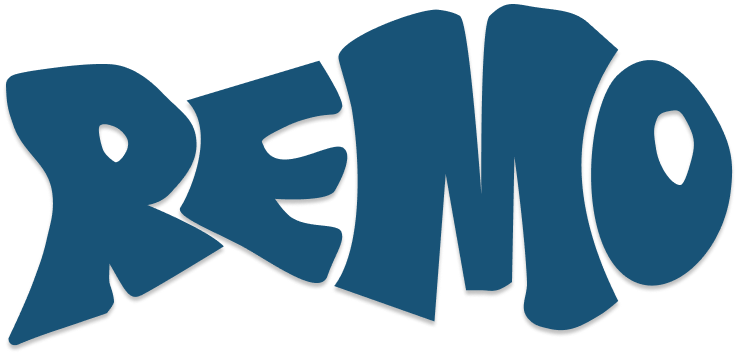
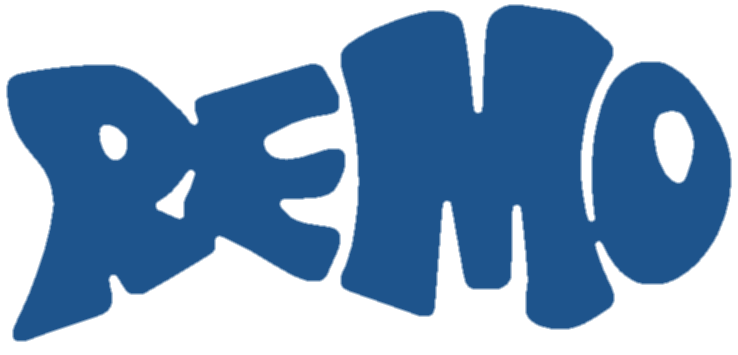
첫 화면 정리 — 관계 맵 제거, 내용 크기 히어로, 로고 둥글림(열림 연산), 방향 축약, 여백 축소

diff --git a/site/index.html b/site/index.html
@@ -66,65 +66,26 @@
     .site-header.on-paper { background: rgba(248, 248, 246, .92); color: var(--ink); }
     @media (prefers-reduced-motion: reduce) { .site-header { transition: none; } }
 
-    /* ===== 0. 히어로: 잉크 위 블루 로고(가이드 2.2 블루 모드 그대로), 그 위에 열 명 ===== */
-    .hero { background: var(--ink); color: var(--paper); min-height: 100dvh; display: grid; grid-template-rows: 1fr auto; padding-block: calc(var(--header-h) + 24px) 32px; position: relative; overflow: hidden; }
-    .hero-stage { position: relative; align-self: center; width: min(92vw, 1180px); justify-self: start; margin-left: 2vw; }
-    .hero-stage .mark { display: block; width: 100%; height: auto; }
-    @keyframes settle { from { transform: scale(1.04); opacity: 0; } to { transform: scale(1); opacity: 1; } }
-    @keyframes pop { from { scale: 0; } to { scale: 1; } }
-    @keyframes draw { from { stroke-dashoffset: 1; } to { stroke-dashoffset: 0; } }
-    @keyframes floaty { 0%, 100% { transform: translateY(0); } 50% { transform: translateY(-6px); } }
-    .hero-stage .mark { animation: settle 900ms cubic-bezier(.2,.9,.2,1.05) both; }
-    .hero-map { position: absolute; inset: 0; }
-    .hero-map svg { position: absolute; inset: 0; width: 100%; height: 100%; overflow: visible; }
-    .hero-map line { stroke: var(--paper); stroke-linecap: round; stroke-dasharray: 1; stroke-dashoffset: 0; transition: opacity 250ms; animation: draw 700ms ease-out both; animation-delay: 600ms; }
-    .node {
-      position: absolute; translate: -50% -50%; border: 0; padding: 0; cursor: pointer; min-width: 24px; min-height: 24px;
-      background: radial-gradient(circle at 32% 30%, #FFFFFF 0%, #EEF2F6 45%, #C9D6E4 100%);
-      box-shadow: inset -3px -4px 6px rgba(30, 84, 140, .35), inset 2px 3px 4px rgba(255,255,255,.9), 0 6px 14px rgba(0,0,0,.35);
-      border-radius: 50%;
-      animation: pop 380ms cubic-bezier(.2,.9,.2,1.15) both;
-      animation-delay: calc(700ms + var(--i, 0) * 60ms);
-      transition: scale 150ms ease-out, background-color 150ms;
-    }
-    .node:nth-of-type(2)  { border-radius: 52% 48% 46% 54% / 48% 54% 46% 52%; }
-    .node:nth-of-type(3)  { border-radius: 46% 54% 52% 48% / 54% 46% 48% 52%; }
-    .node:nth-of-type(4)  { border-radius: 55% 45% 50% 50% / 45% 50% 50% 55%; }
-    .node:nth-of-type(5)  { border-radius: 48% 52% 55% 45% / 52% 48% 45% 55%; }
-    .node:nth-of-type(6)  { border-radius: 50% 50% 45% 55% / 55% 45% 50% 50%; }
-    .node:nth-of-type(7)  { border-radius: 53% 47% 48% 52% / 47% 53% 52% 48%; }
-    .node:nth-of-type(8)  { border-radius: 45% 55% 53% 47% / 53% 47% 45% 55%; }
-    .node:nth-of-type(9)  { border-radius: 51% 49% 54% 46% / 49% 51% 46% 54%; }
-    .node:nth-of-type(10) { border-radius: 47% 53% 49% 51% / 51% 49% 53% 47%; }
-    .node.float { animation: pop 380ms cubic-bezier(.2,.9,.2,1.15) both, floaty var(--dur, 7s) ease-in-out infinite; animation-delay: calc(700ms + var(--i, 0) * 60ms), calc(1400ms + var(--i, 0) * 300ms); }
-    .node:hover, .node:focus-visible { scale: 1.15; }
-    .node[aria-pressed="true"] { background: var(--blue); box-shadow: inset -3px -4px 6px rgba(0,0,0,.35), 0 0 0 3px var(--paper); }
-    .node:focus-visible { outline-color: var(--paper); }
-    .hero-foot { display: flex; align-items: flex-end; justify-content: space-between; gap: 24px; flex-wrap: wrap; }
-    .hero h1 { font-size: 22px; font-weight: 500; line-height: 1.45; letter-spacing: -0.01em; max-width: 34ch; }
-    @media (max-width: 879px) { .hero h1 { font-size: 18px; } }
-    .rel-filters { display: flex; gap: 4px 18px; flex-wrap: wrap; }
-    .rel-filters button { background: none; border: 0; padding: 10px 0; min-height: 44px; color: var(--paper); font: inherit; font-size: 13px; font-weight: 600; letter-spacing: 0.02em; cursor: pointer; opacity: .6; text-decoration: underline; text-underline-offset: 6px; text-decoration-thickness: 1.5px; text-decoration-color: transparent; }
-    .rel-filters button:hover { opacity: 1; }
-    .rel-filters button[aria-pressed="true"] { opacity: 1; text-decoration-color: currentColor; }
-    .rel-filters button:focus-visible { outline-color: var(--paper); }
-    .rel-cap { font-size: 12px; color: var(--mute-on-ink); }
+    /* ===== 0. 히어로: 잉크 위 블루 로고 하나. 높이는 내용이 정한다(빈 검정 여백은 의도가 아니라 남은 공간) ===== */
+    .hero { background: var(--ink); color: var(--paper); padding-block: calc(var(--header-h) + 6vh) 0; position: relative; overflow: hidden; }
+    .hero .mark { display: block; width: 100%; height: auto; }
+    @keyframes settle { from { transform: scale(1.03); opacity: 0; } to { transform: scale(1); opacity: 1; } }
+    .hero .mark { animation: settle 900ms cubic-bezier(.2,.9,.2,1.05) both; }
+    .hero h1 { margin-top: 5vh; font-size: 20px; font-weight: 500; line-height: 1.45; letter-spacing: -0.01em; max-width: 34ch; color: var(--mute-on-ink); }
+    @media (max-width: 879px) { .hero h1 { font-size: 17px; margin-top: 28px; } }
     @supports (animation-timeline: scroll()) {
-      @keyframes rise { to { transform: translateY(-12vh) scale(.94); } }
-      .hero-stage { animation: rise linear both; animation-timeline: scroll(root); animation-range: 0 100vh; }
+      @keyframes rise { to { transform: translateY(-8vh) scale(.97); } }
+      .hero .mark { animation: settle 900ms cubic-bezier(.2,.9,.2,1.05) both, rise linear both; animation-timeline: auto, scroll(root); animation-range: normal, 0 80vh; }
     }
-    @media (prefers-reduced-motion: reduce) {
-      .hero-stage .mark, .hero-map line, .node, .node.float, .hero-stage { animation: none !important; }
-      .node:hover, .node:focus-visible { scale: 1; }
-    }
+    @media (prefers-reduced-motion: reduce) { .hero .mark { animation: none !important; } }
 
     /* ===== 1. 방향: 잉크 위 매니페스토. 계단 들여쓰기가 로고의 상승 리듬 ===== */
-    .direction { background: var(--ink); color: var(--paper); padding-block: 12vh 16vh; }
+    .direction { background: var(--ink); color: var(--paper); padding-block: 12vh 14vh; }
     .direction .mission { font-size: clamp(44px, 7vw, 112px); font-weight: 800; line-height: .98; max-width: 14ch; }
     .direction .mission .step { display: block; padding-left: 1.2em; }
+    @media (max-width: 879px) { .direction .mission { font-size: clamp(30px, 9vw, 44px); max-width: none; } .direction .mission .step { padding-left: .6em; } }
     .direction .src { margin-top: 24px; color: var(--mute-on-ink); font-size: 14px; }
-    .direction .grid { margin-top: 10vh; display: grid; grid-template-columns: minmax(0, 7fr) minmax(0, 5fr); gap: 48px; align-items: start; }
-    @media (max-width: 879px) { .direction .grid { grid-template-columns: 1fr; gap: 40px; } }
+    .direction .vision { margin-top: 8vh; max-width: 30ch; }
     .direction .vision { font-size: clamp(26px, 2.6vw, 34px); font-weight: 500; line-height: 1.3; letter-spacing: -0.02em; }
     .direction .vision .label { display: block; margin-top: 10px; color: var(--mute-on-ink); }
     .direction .kv { display: grid; gap: 28px; }
@@ -134,7 +95,7 @@
     .direction .goal { font-size: 22px; font-weight: 500; line-height: 1.4; }
 
     /* ===== 2. 포트폴리오: 근백색, 인덱스 행. 이미지 없음은 타이포로 정직하게 ===== */
-    .portfolio { padding-block: 12vh 8vh; }
+    .portfolio { padding-block: 10vh 6vh; }
     .portfolio .head { display: flex; justify-content: space-between; align-items: baseline; gap: 24px; flex-wrap: wrap; margin-bottom: 40px; }
     .portfolio h2 { font-size: clamp(32px, 4vw, 56px); font-weight: 800; }
     .portfolio .head p { color: var(--mute-on-paper); font-size: 16px; }
@@ -152,7 +113,7 @@
     @media (prefers-reduced-motion: reduce) { .row a { transition: none; } }
 
     /* ===== 3. 팀: 풀블리드 사진 + 이름의 벽 ===== */
-    .team { padding-block: 8vh 12vh; }
+    .team { padding-block: 6vh 10vh; }
     .team figure { margin: 0 calc(-1 * var(--gutter)); }
     .team figure img { display: block; width: 100%; height: auto; aspect-ratio: 21 / 9; object-fit: cover; }
     @media (max-width: 879px) { .team figure img { aspect-ratio: 4 / 3; } }
@@ -162,7 +123,7 @@
     .team .note { margin-top: 24px; font-size: 15px; color: var(--mute-on-paper); }
 
     /* ===== 4. 문의: 에디토리얼 폼. 필수 3, 나머지 선택 ===== */
-    .contact { padding-block: 8vh 14vh; border-top: 1px solid var(--ink); }
+    .contact { padding-block: 8vh 12vh; border-top: 1px solid var(--ink); }
     .contact h2 { font-size: clamp(36px, 5vw, 72px); font-weight: 800; }
     .contact .lead { margin-top: 20px; max-width: 46ch; color: var(--mute-on-paper); font-size: 17px; }
     .contact-form { margin-top: 48px; display: grid; grid-template-columns: repeat(2, minmax(0, 1fr)); gap: 36px 40px; }
@@ -218,22 +179,12 @@
   </header>
 
   <main id="main">
-    <!-- 0. 히어로 — 로고가 화면의 주인공. 노드 10개는 data/relations.json이 있을 때만 로고 위에 얹힌다. -->
+    <!-- 0. 히어로 — 로고 하나와 한 줄. 관계 맵은 첫 화면에서 뺐다(2026-09-18, 팀장). plan-09 §6 -->
     <section class="hero dark" id="hero" aria-labelledby="h-hero">
-      <div class="hero-stage" id="hero-stage">
+      <div class="wrap">
         <img class="mark" src="assets/remo-wordmark.png" alt="REMO" width="738" height="355" fetchpriority="high">
-        <div class="hero-map" id="relations" hidden>
-          <svg viewBox="0 0 640 440" preserveAspectRatio="none" aria-hidden="true" id="rel-lines"></svg>
-        </div>
-      </div>
-      <div class="hero-foot wrap">
         <h1 id="h-hero">문제를 받아 실행으로 증명하는 열 명의 학생 협동조합.</h1>
-        <div>
-          <div class="rel-filters" role="group" aria-label="관계 유형" id="rel-filters" hidden></div>
-          <p class="rel-cap" id="rel-caption" hidden>팀 진단 도구(REMO OS)의 관계 데이터. 노드에 이름은 없다.</p>
-        </div>
       </div>
-      <p class="sr-only" role="status" id="rel-status"></p>
     </section>
 
     <!-- 1. 방향 — 노션 TEAM 페이지 원문(2026-09-17). 노션이 바뀌면 여기를 바꾼다. 다음 갱신: 2027-01 / 담당: ___ -->
@@ -241,13 +192,7 @@
       <div class="wrap">
         <h2 id="h-direction" class="mission">우리는 가치와 문제를<span class="step">비즈니스로 풀어내며</span><span class="step">실행으로 증명한다.</span></h2>
         <p class="src">리모(REMO) 협동조합의 미션. 팀 노션에 기록된 문장 그대로.</p>
-        <div class="grid">
-          <p class="vision">혼자가 아닌 팀으로 선순환하며, 시장의 평가 속에서 성장한다.<span class="label">비전 · 2년차</span></p>
-          <div class="kv">
-            <div><span class="label">가치</span><p class="values"><span>학습 · 성장</span><span>협력</span><span>신뢰 · 안전감</span><span>책임 · 설명</span><span>실행 · 실험</span></p></div>
-            <div><span class="label">이번 분기 · 2026.09 → 2026.12</span><p class="goal">팀이 서로 연결되어 협업할 수 있는 시스템을 구축한다.</p></div>
-          </div>
-        </div>
+        <p class="vision">혼자가 아닌 팀으로 선순환하며, 시장의 평가 속에서 성장한다.<span class="label">비전 · 2년차</span></p>
       </div>
     </section>
 
@@ -256,7 +201,6 @@
       <div class="wrap">
         <div class="head">
           <h2 id="h-portfolio">지금 하고 있는 네 가지 일</h2>
-          <p>넷 다 진행 중. 상세는 노션에.</p>
         </div>
         <ul class="rows">
           <li class="row"><a href="https://remo-core.notion.site/K-Pipe-3bd4e56fc730801fa19cf713a1ccbfc7">
@@ -296,7 +240,7 @@
     <section id="contact" class="contact" aria-labelledby="h-contact">
       <div class="wrap">
         <h2 id="h-contact">문제를 적어 보내 주세요.</h2>
-        <p class="lead">이메일 한 줄보다 폼이 낫습니다. 문제를 한 단락으로 적어 주시면 그만큼 정확히 답할 수 있어서요. 나머지는 아는 만큼만.</p>
+        <p class="lead">문제를 한 단락으로. 나머지는 아는 만큼만.</p>
         <form class="contact-form" method="POST" action="https://formspree.io/f/xdekorqo" data-endpoint="https://formspree.io/f/xdekorqo">
           <p class="form-msg" role="alert" id="form-error"></p>
           <div class="field">
@@ -369,60 +313,6 @@
       links.forEach(function (a) { byId[a.getAttribute('href').slice(1)] = a; });
       var io = new IntersectionObserver(function (es) { es.forEach(function (e) { var a = byId[e.target.id]; if (!a) return; if (e.isIntersecting) a.setAttribute('aria-current', 'true'); else a.removeAttribute('aria-current'); }); }, { rootMargin: '-40% 0px -55% 0px' });
       Object.keys(byId).forEach(function (id) { var el = document.getElementById(id); if (el) io.observe(el); });
-    })();
-
-    // 관계 맵 — data/relations.json 이 있으면 로고 위에 얹는다. 라벨·명세: plan-06 · plan-09
-    (function () {
-      var box = document.getElementById('relations');
-      if (!box || !window.fetch) return;
-      var TYPES = [['synergy', '같이 하면 강해지는'], ['cover', '서로 메워주는'], ['collab', '손발이 맞는']];
-      fetch('data/relations.json', { cache: 'no-cache' }).then(function (r) { if (!r.ok) throw 0; return r.json(); }).then(function (D) {
-        var allowed = TYPES.map(function (t) { return t[0]; });
-        D.edges = D.edges.filter(function (e) { return allowed.indexOf(e.tp) >= 0; });
-        if (!D.nodes || !D.nodes.length || !D.edges.length) return;
-        var svg = document.getElementById('rel-lines'), fl = document.getElementById('rel-filters'), st = document.getElementById('rel-status'), cap = document.getElementById('rel-caption');
-        if (D.caption) cap.textContent = D.caption;
-        var byN = {}; D.nodes.forEach(function (n) { byN[n.n] = n; });
-        var cur = 'synergy', sel = null, nodeEls = [];
-        D.edges.forEach(function (e) {
-          var a = byN[e.s], b = byN[e.t]; if (!a || !b) return;
-          var l = document.createElementNS('http://www.w3.org/2000/svg', 'line');
-          l.setAttribute('x1', a.x); l.setAttribute('y1', a.y); l.setAttribute('x2', b.x); l.setAttribute('y2', b.y);
-          l.setAttribute('pathLength', '1'); l.setAttribute('stroke-width', [0, 1.2, 1.6, 2.2][e.w] || 1.6); l.setAttribute('vector-effect', 'non-scaling-stroke');
-          l.dataset.tp = e.tp; l.dataset.s = e.s; l.dataset.t = e.t; svg.appendChild(l);
-        });
-        D.nodes.forEach(function (n, i) {
-          var b = document.createElement('button'); b.className = 'node' + (i % 2 ? ' float' : ''); b.type = 'button'; b.dataset.n = n.n;
-          b.style.left = (n.x / 640 * 100) + '%'; b.style.top = (n.y / 440 * 100) + '%';
-          var d = Math.round(n.r * 1.7); b.style.width = b.style.height = d + 'px';
-          b.style.setProperty('--i', i); b.style.setProperty('--dur', (6 + (i % 4)) + 's');
-          b.addEventListener('click', function () { sel = (sel === n.n) ? null : n.n; render(); });
-          box.appendChild(b); nodeEls.push(b);
-        });
-        TYPES.forEach(function (t) {
-          var b = document.createElement('button'); b.type = 'button'; b.textContent = t[1];
-          b.addEventListener('click', function () { cur = t[0]; sel = null; render(); }); fl.appendChild(b);
-        });
-        function render() {
-          var T = TYPES.filter(function (t) { return t[0] === cur; })[0];
-          fl.querySelectorAll('button').forEach(function (b) { b.setAttribute('aria-pressed', String(b.textContent === T[1])); });
-          var deg = {}, cnt = 0;
-          svg.querySelectorAll('line').forEach(function (l) {
-            var on = l.dataset.tp === cur, touch = sel == null || l.dataset.s == sel || l.dataset.t == sel;
-            l.style.opacity = on ? (sel == null ? 0.45 : (touch ? 1 : 0.12)) : 0;
-            if (on) { cnt++; deg[l.dataset.s] = (deg[l.dataset.s] || 0) + 1; deg[l.dataset.t] = (deg[l.dataset.t] || 0) + 1; }
-          });
-          nodeEls.forEach(function (b) {
-            var n = b.dataset.n;
-            b.setAttribute('aria-pressed', String(sel == n));
-            b.setAttribute('aria-label', '구성원 ' + n + ', ' + T[1] + ' 관계 ' + (deg[n] || 0) + '개');
-          });
-          var top = Object.keys(deg).sort(function (a, b) { return deg[b] - deg[a]; }).slice(0, 3).join(', ');
-          st.textContent = sel == null ? T[1] + ' 관계 ' + cnt + '개. 가장 많이 연결된 구성원 셋: ' + (top || '없음') + '.' : '구성원 ' + sel + ': ' + T[1] + ' 관계 ' + (deg[sel] || 0) + '개.';
-        }
-        render();
-        box.hidden = false; fl.hidden = false; cap.hidden = false;
-      }).catch(function () {});
     })();
 
     // 문의 폼 — AJAX 제출, 실패 시 입력값 유지 (plan-04)

diff --git a/docs/plan-09-redesign.md b/docs/plan-09-redesign.md
@@ -55,3 +55,16 @@
 ## 5. 재설계로도 남는 것 (정직하게)
 
 프로젝트 이미지 0 · 완료 사례 0 · DATAFLOW 2 설명 없음 · 역할 없는 10명 · 로고 벡터 없음 · 뒷모습 사진 1장. 이 여섯은 **자산 스프린트**의 몫이지 CSS의 몫이 아니다.
+
+## 6. 개정 (2026-09-18, 팀장 피드백 "밤티, 여백과 글이 너무 많다")
+
+| 항목 | 결정 | 이유 | 근거 | 기각안 |
+|---|---|---|---|---|
+| 관계 맵 | 첫 화면에서 **제거**(선·노드·필터·출처 캡션). 데이터·스크립트는 저장소에 유지 | 팀장: "연결성 있는 부분 없애라". 로고 위 흰 점과 선이 로고를 읽는 것을 방해했다 | 취향(팀장) + 시각 위계(한 화면에 주인공 하나) | 로고 옆 별도 배치 — 첫 화면 요소가 다시 둘 |
+| 히어로 높이 | `100dvh` 폐기 → **내용 크기**(헤더 + 로고 + 한 줄) | 남은 검정 여백은 "의도된 여백"이 아니라 "남은 공간". 여백은 요소 사이 관계를 말할 때만 의미가 있다(근접 원리) | 디자인 기본: 여백은 그룹화의 도구 | 100dvh 유지 — 825px 패널에서 절반이 빈 검정 |
+| 로고 | 원본 PNG 알파를 **열림 연산**(침식 r4 → 팽창 r4)으로 볼록 꼭짓점만 둥글림, 오목한 틈(R/E 사이)은 유지. 색은 가이드 선언값 `#1E548C` | 팀장: "각져 보인다, 더 동글동글하게". 재생성이 아니라 윤곽 처리 — 획·비율·기울기 그대로 | 가이드 앵커 "둥근 통통한 매스" · 하드룰 4(생성 금지)와 충돌 없음 | 닫힘 연산 r7(첫 시도) — R·E가 붙고 E의 획이 메워짐 → 폐기 |
+| 글 줄이기 | 히어로: 한 줄만(20px, 뮤트). 방향: 미션 + 비전만(가치 5·분기 목표·의사결정 기준 삭제). 포트폴리오 부제 삭제. 문의 리드 한 줄 | 한 화면에 읽을 것이 하나여야 읽는다. 가치·분기 목표는 노션에 있고 외부인의 판단에 기여하지 않음(AI Council 방문자) | 시각 위계 · 방문자 패널 §3 "빼도 되는 것" | 전부 유지 — "글이 너무 많다" |
+| 여백 | 섹션 패딩 12~16vh → 6~12vh | 여백 축소가 아니라 균일화: 큰 여백은 섹션 경계(잉크↔근백색)가 이미 하니 패딩은 줄여도 구분이 유지 | 근접·공통영역 | — |
+| 모바일 미션 | `clamp(30px, 9vw, 44px)`, 들여쓰기 .6em | 44px에서 6줄로 부서짐 → 3줄 실측 | 실측 | — |
+
+검증: 데스크톱(825) 히어로 513px·콘솔 오류 0 / 375 히어로 352px·미션 33.75px 3줄·가로 넘침 0.
